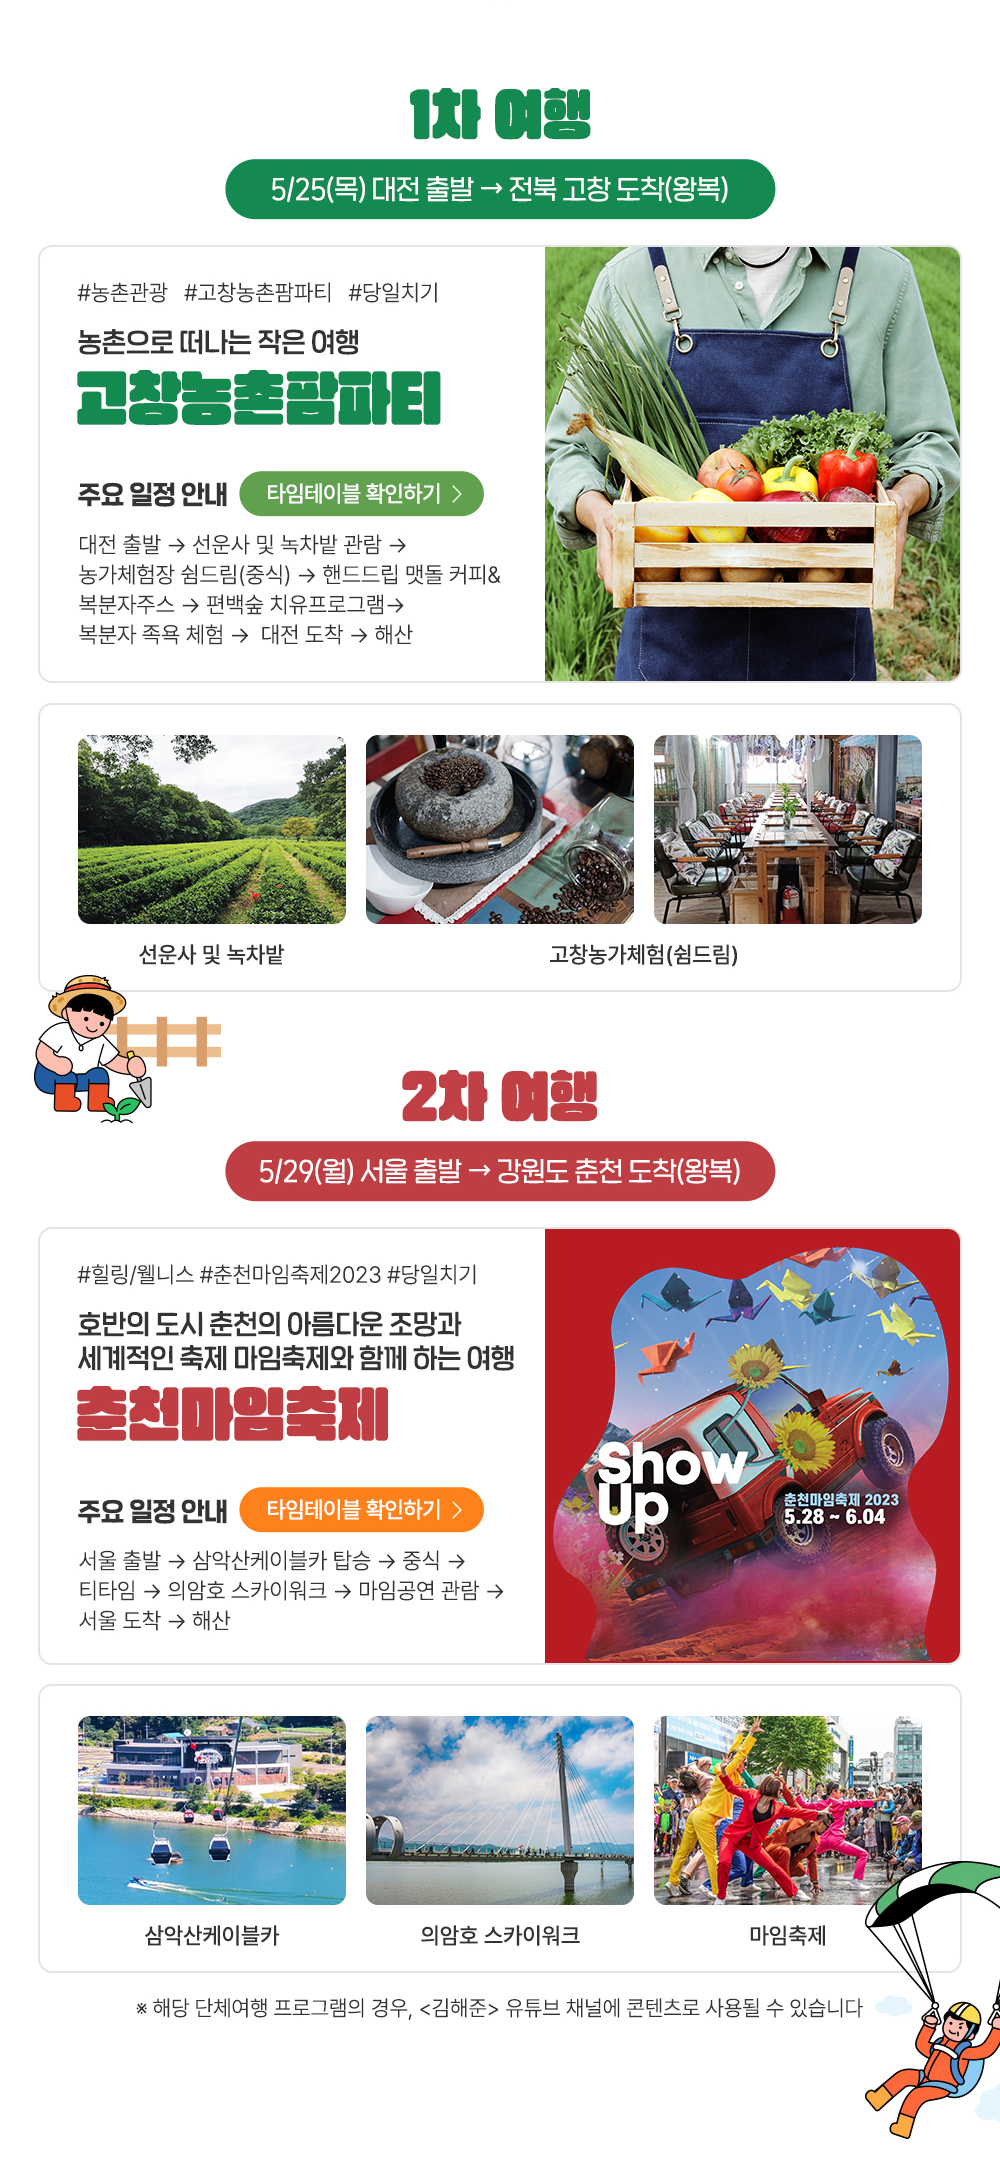
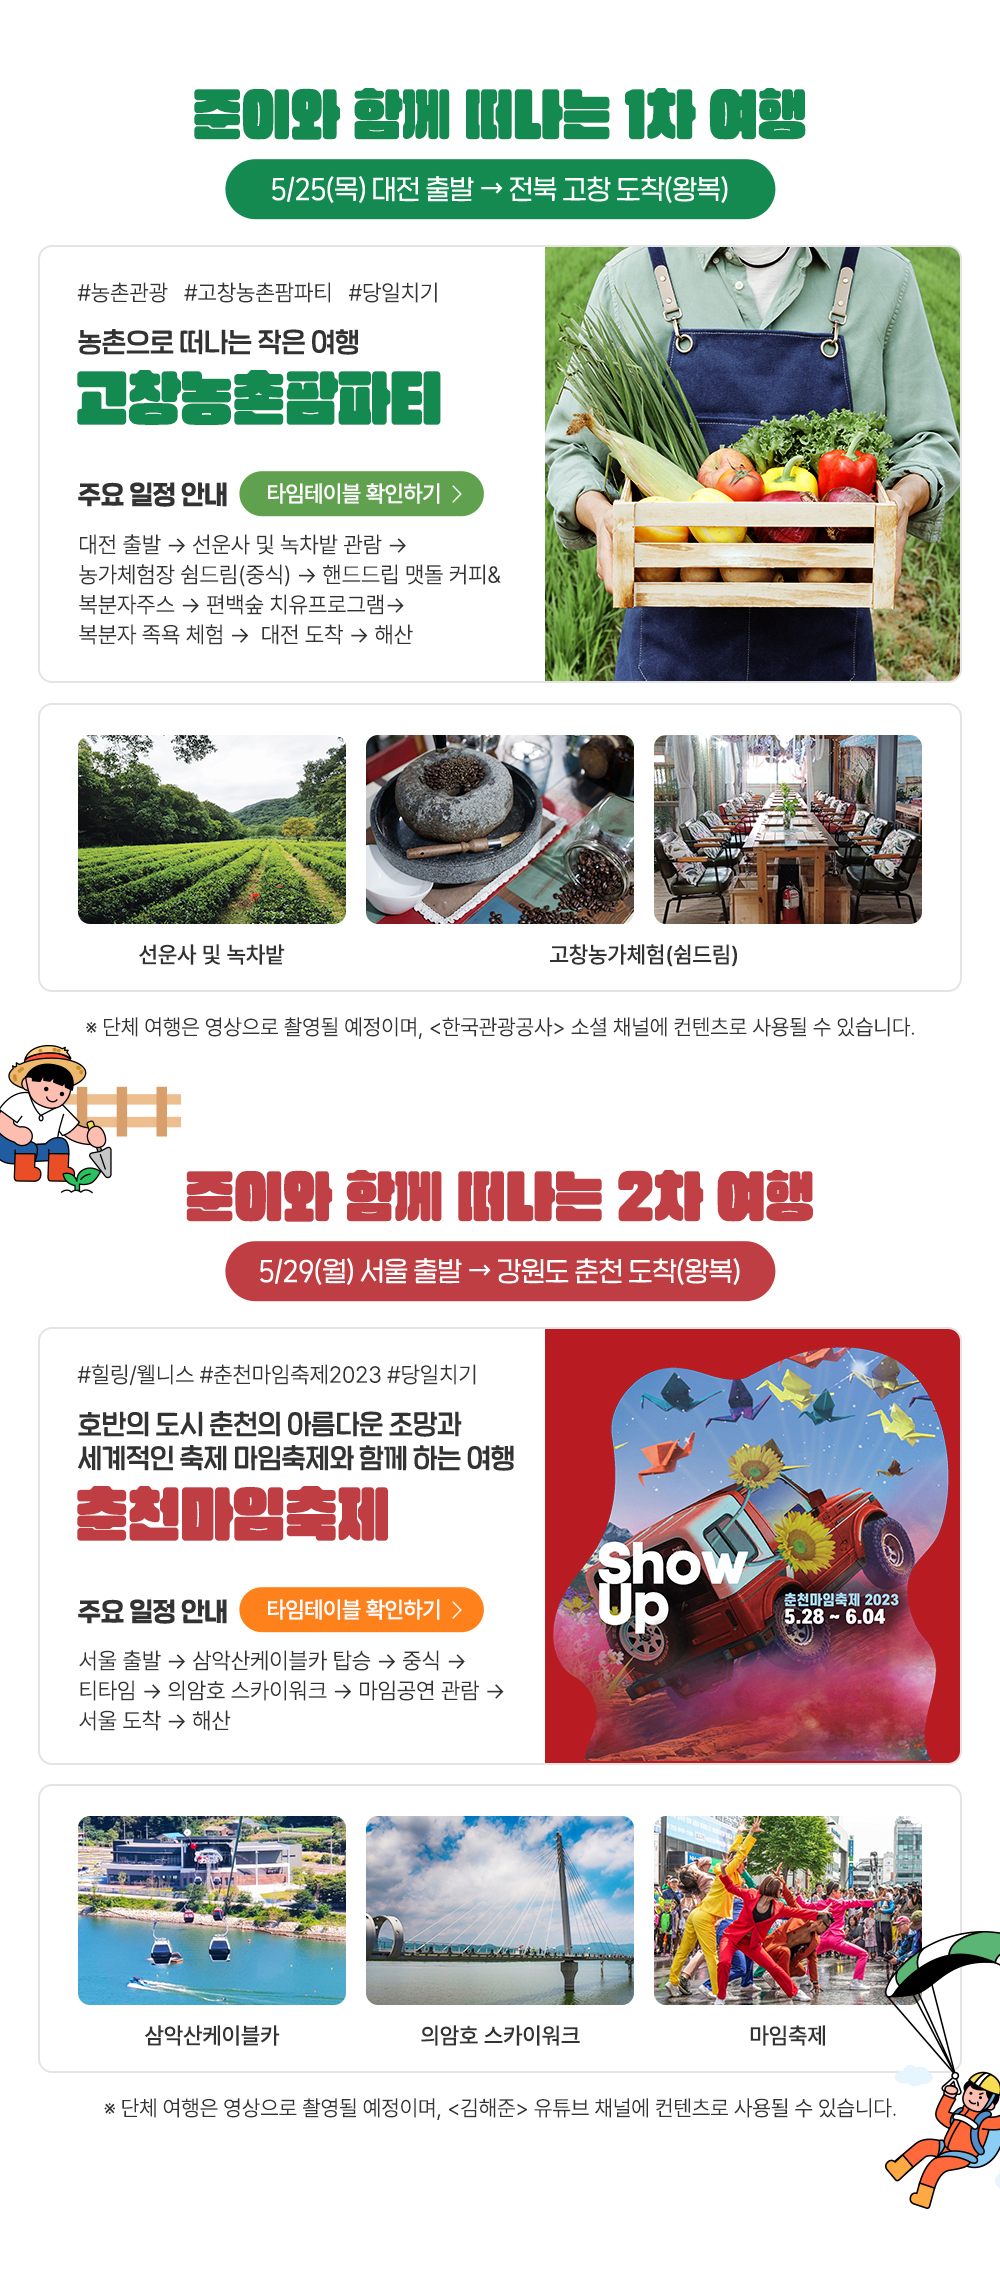
june페이지 작업

diff --git a/__resource/scss/_event.scss b/__resource/scss/_event.scss
@@ -265,11 +265,11 @@
                 border: none;
 
                 &:first-of-type {
-                    top: 21.45%;
+                    top: 20.45%;
                 }
 
                 &:last-of-type {
-                    top: 68.05%;
+                    top: 69.4%;
                 }
             }
         }
